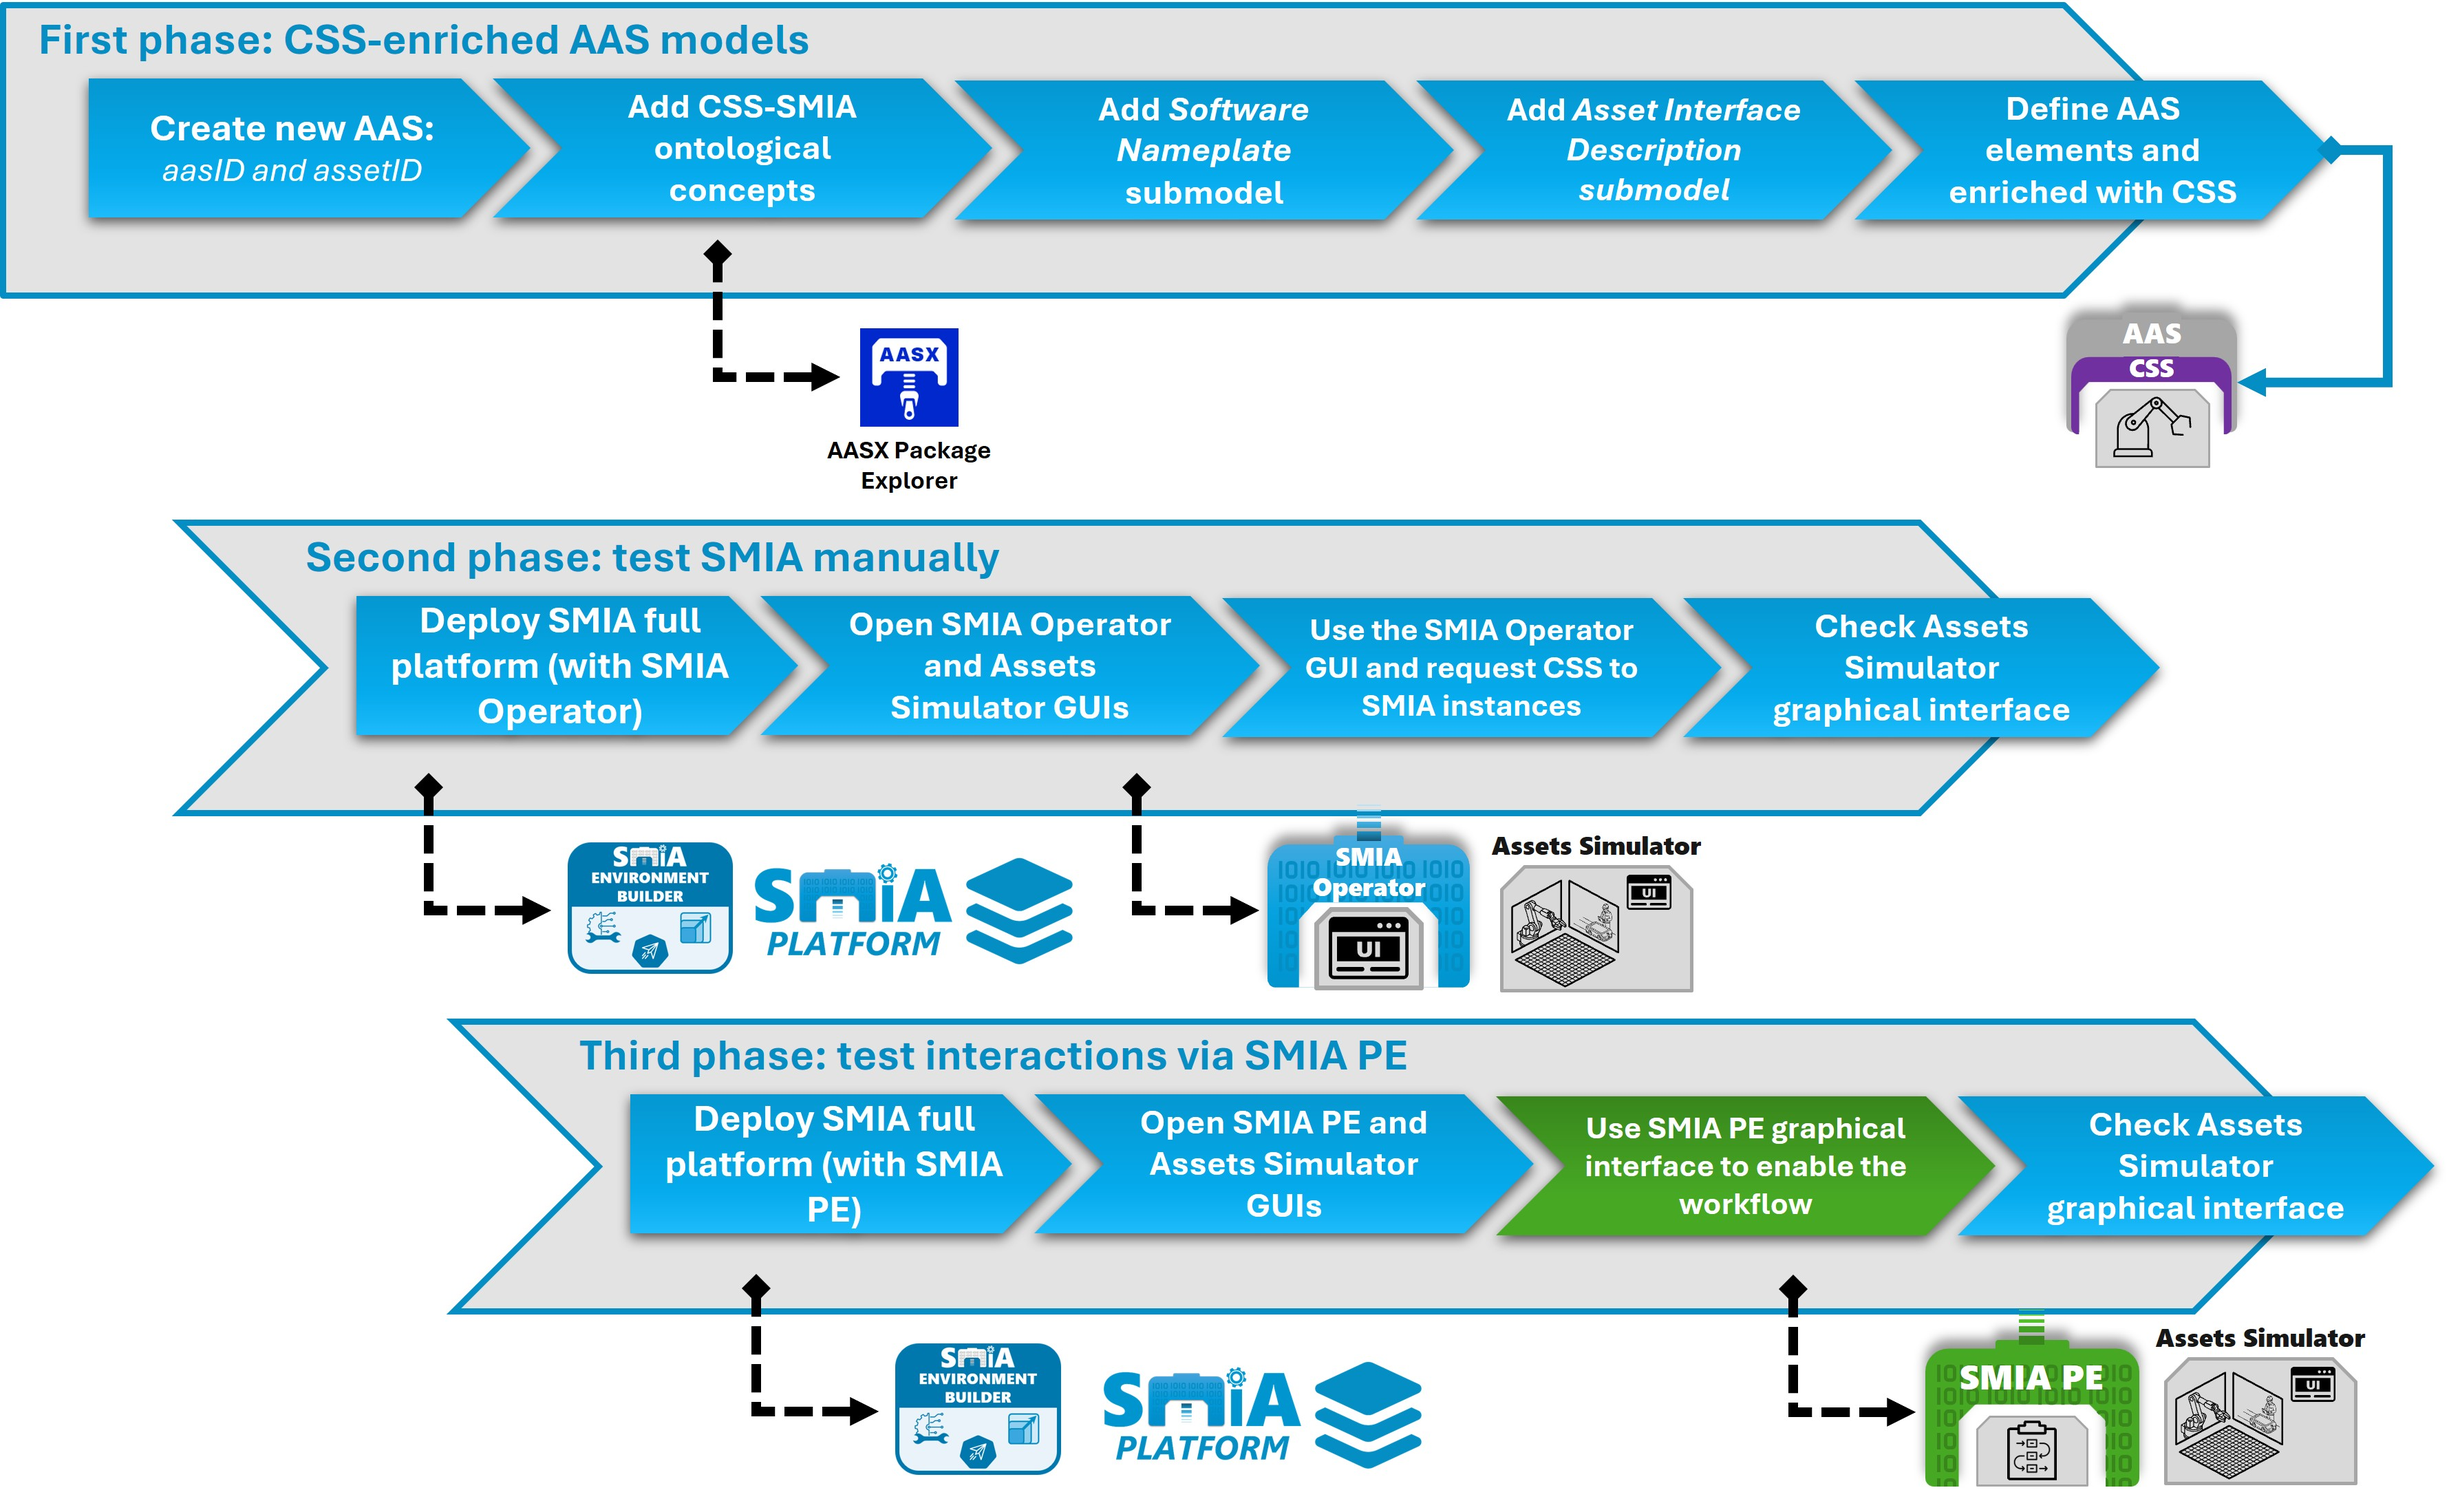
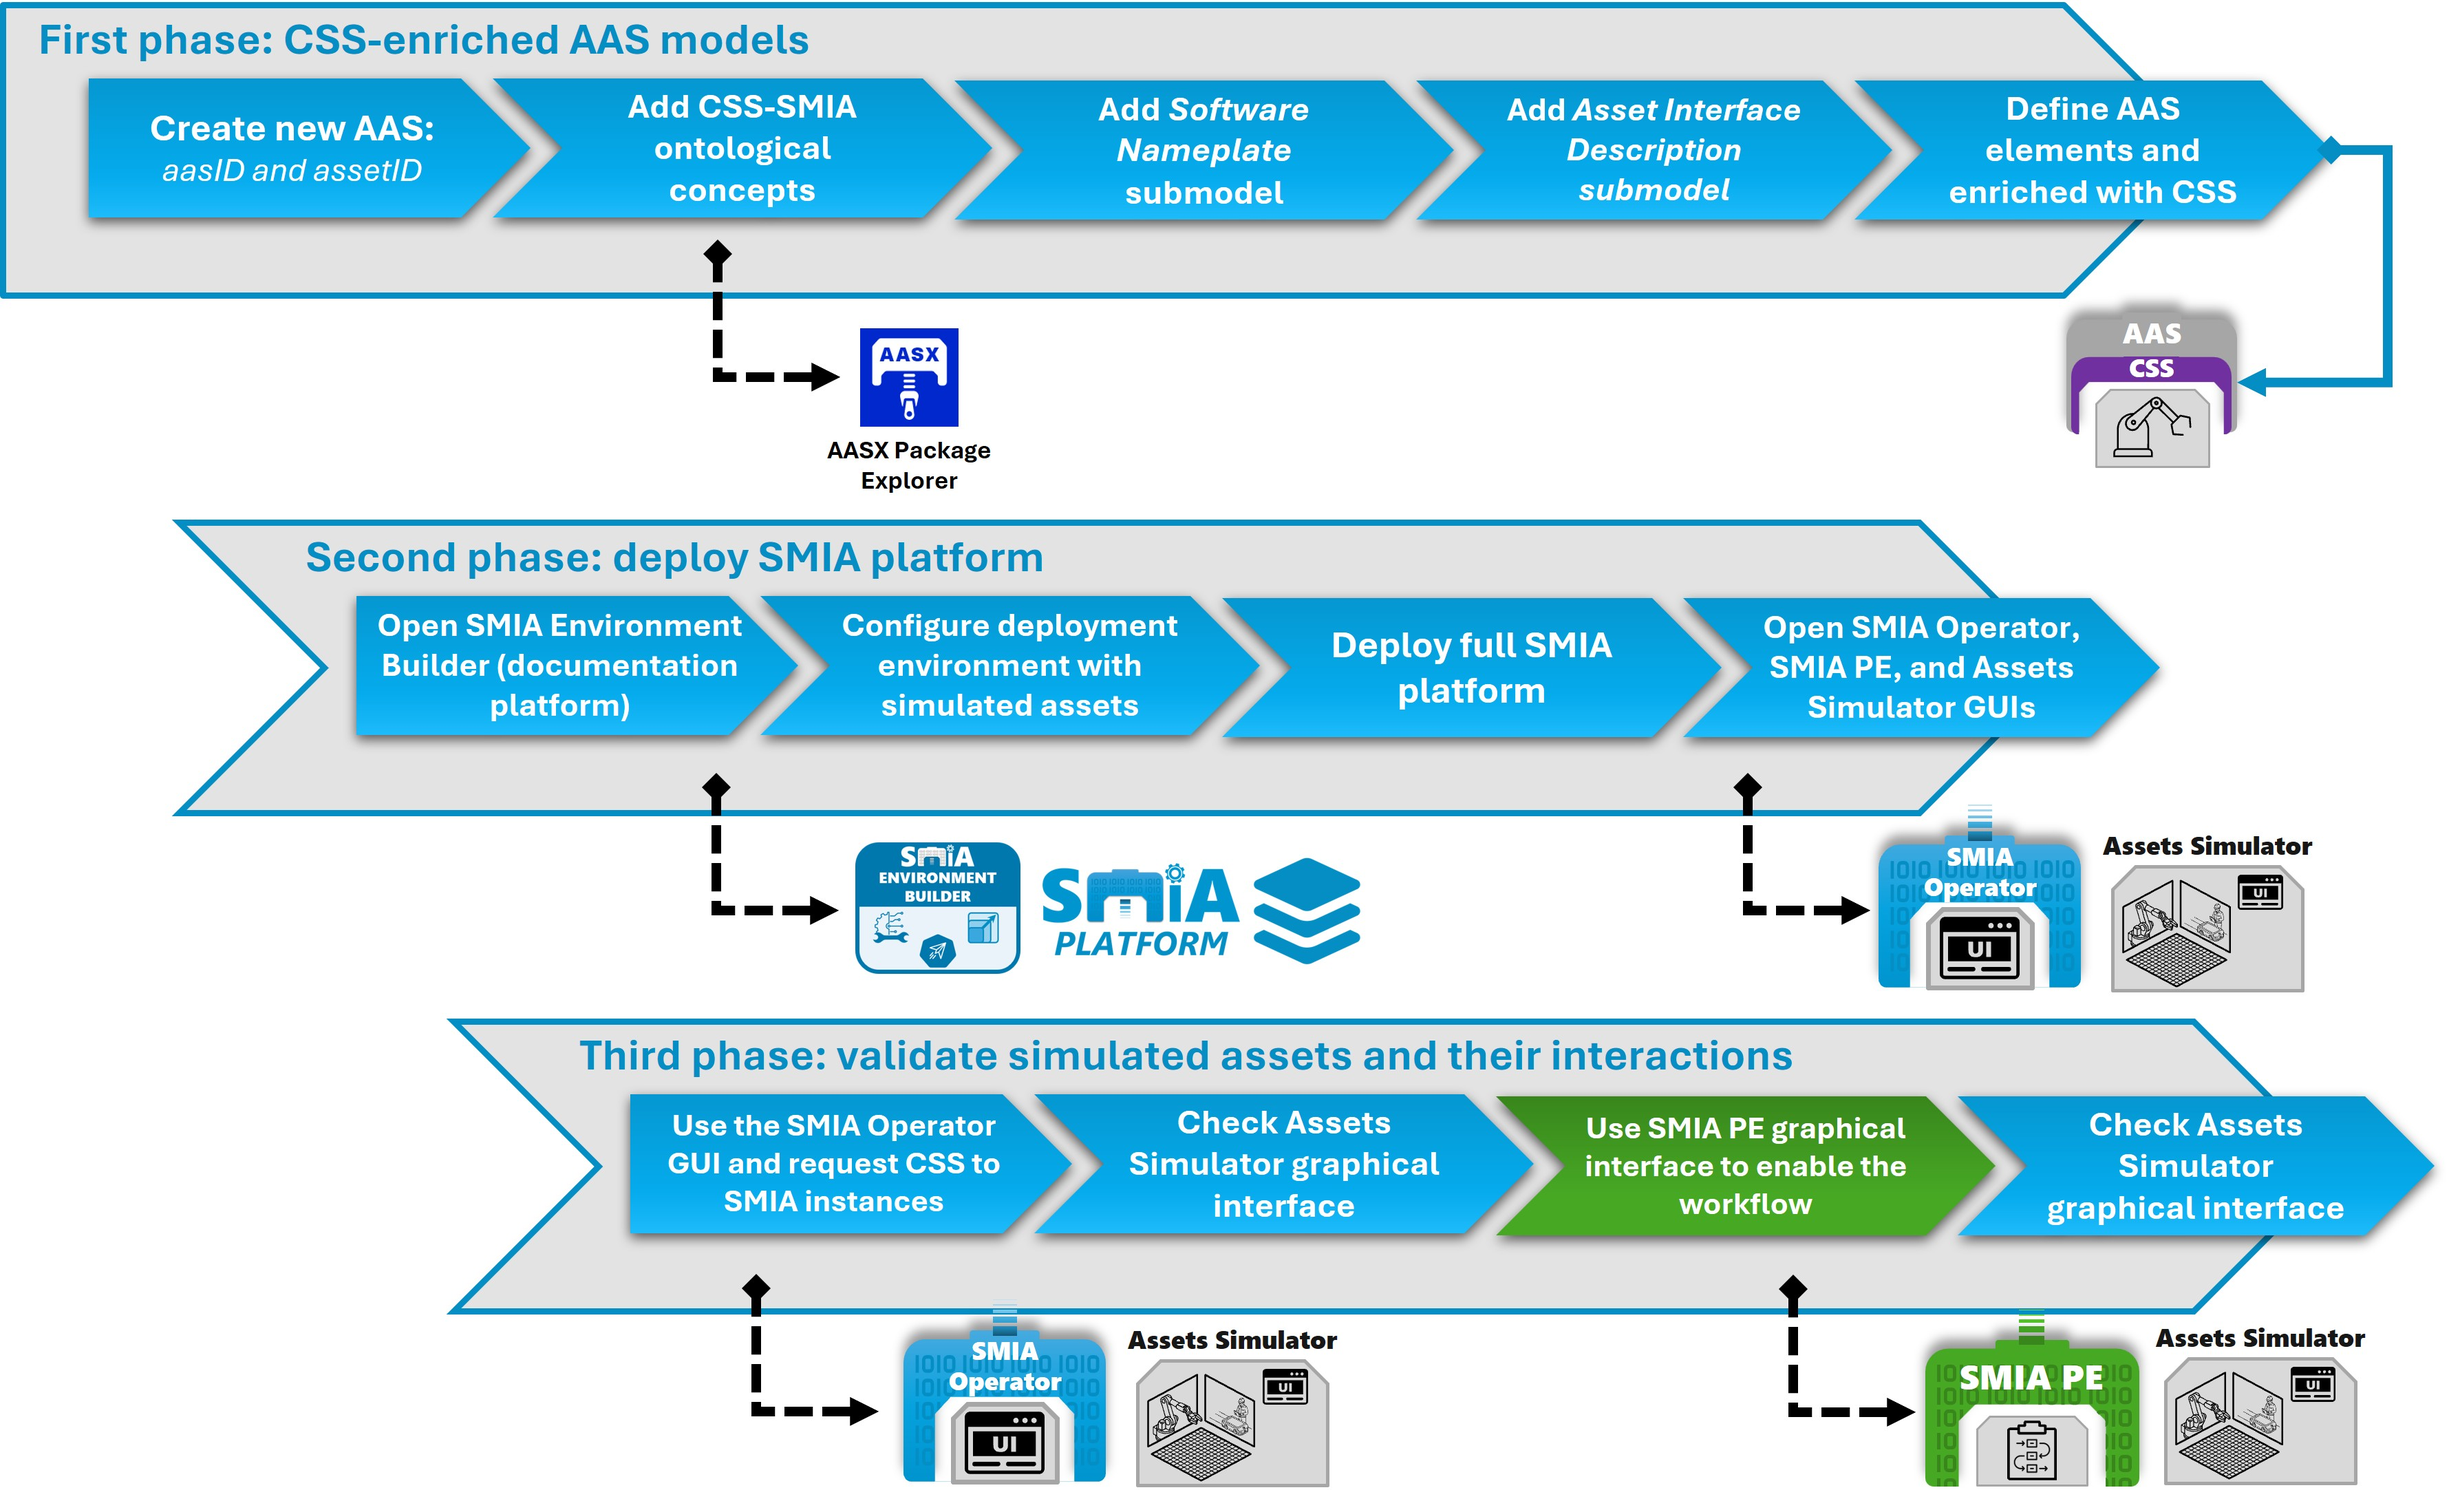
docs: progress with the step-by-step tutorial for the assets simulator: progress with the second phase (deployment of SMIA platform). How to set Up and deploy the platform

diff --git a/docs/smia_user_guide/guided_tutorials/guided_tutorial_simulated_assets.rst b/docs/smia_user_guide/guided_tutorials/guided_tutorial_simulated_assets.rst
@@ -25,7 +25,7 @@ Introduction
 Tutorial Description
 ~~~~~~~~~~~~~~~~~~~~
 
-The tutorial consists of three phases. It starts by generating the necessary pre-configuration, such as the CSS-enriched AAS model for each SMIA instance. Next, the entire SMIA platform is deployed to evaluate all the instances associated with these CSS-enriched AAS models, thanks to the necessary infrastructure (in particular, SMIA Operator). Finally, it evaluates the autonomous interaction between SMIA instances by deploying and running a BPMN manufacturing plan executed by an SMIA PE agent. The three phases are illustrated in the following figure:
+The tutorial consists of three phases. It starts by generating the necessary pre-configuration, such as the CSS-enriched AAS model for each SMIA instance. Next, the entire SMIA platform is deployed to evaluate all the instances associated with these CSS-enriched AAS models and their collaborative interaction. This process is facilitated by the Environment Builder tool on this documentation platform. Finally, it evaluates the operation of the agents and the collaborative and autonomous interaction among the SMIA instances in two stages. To validate the individual operation of each agent, the SMIA Operator infrastructure service is leveraged. To validate the distributed interactions, a BPMN manufacturing plan is launched and executed by an SMIA PE agent. The three phases are illustrated in the following figure:
 
 .. figure:: ../../_static/images/guides_images/SMIA_guided_tutorial_simAss_steps.jpg
    :alt: SMIA simulated assets guided tutorial steps
@@ -56,8 +56,9 @@ Tutorial Objective
 Upon completing this practice, you will have achieved the following:
 
 1. **Model:** Create a CSS-enriched AAS model that defines the asset's capabilities and serves to enable the self-configuration of the SMIA agent. As part of this process, you will also learn how to define a valid asset interface.
-2. **Individual validation:** Test and validate the operation of SMIA agents individually (the operation of each agent). The **SMIA Operator** agent will be used to make requests through an intuitive graphical interface (abstracting the underlying implementation using the I4.0 language).
-3. **Collaborative validation:** Test and validate the operation of the SMIA agents as a set of asset representatives within the SMIA platform. The **SMIA PE** agent will be used to automate production plans as BPMN workflows and verify how the involved agents interact and collaborate.
+2. **Deploy:** Deploy a self-contained execution environment with the entire SMIA platform, including agents for simulated assets, extended logical agents, SMIA PE agents, and the entire supporting infrastructure for them.
+3. **Individual validation:** Test and validate the operation of SMIA agents individually (the operation of each agent). The **SMIA Operator** agent will be used to make requests through an intuitive graphical interface (abstracting the underlying implementation using the I4.0 language).
+4. **Collaborative validation:** Test and validate the operation of the SMIA agents as a set of asset representatives within the SMIA platform. The **SMIA PE** agent will be used to automate production plans as BPMN workflows and verify how the involved agents interact and collaborate.
 
 Development Environment
 ~~~~~~~~~~~~~~~~~~~~~~~
@@ -147,7 +148,7 @@ In the first phase, we will generate the CSS-enriched AAS model that will allow 
         .. tip::
             All actions allow specifying a ``duration`` as a parameter within the body of the HTTP request, but it is not necessary to specify it within the AID submodel (it is specified at the Skill CSS level and is automatically handled by SMIA).
 
-    .. note::
+    .. tip::
        The submodel must be completely defined so that it does not produce errors during the SMIA startup. If you wish to modify a valid submodel, you can open a new window of the ``AASX Package Explorer`` tool, open the file ``CSS_AAS_model_base.aasx`` offered in this tutorial's folder, copy the "AssetInterfacesDescription" submodel using the ``Copy`` button, and in our AAS, ``Paste into``.
 
 
@@ -210,12 +211,12 @@ In the first phase, we will generate the CSS-enriched AAS model that will allow 
 8. Save the AASX file with the complete definition of the valid CSS-enriched AAS model. To do this, use the menu: ``File > Save as ...``, select the folder where the CSS-enriched AAS model will be saved and specify the name for the AASX file.
 
 
-Second Phase: validate the SMIA agents manually
------------------------------------------------
+Second Phase: deploy SMIA platform
+----------------------------------
 
-Once the phase required for SMIA's self-configuration (development of CSS-enriched AAS models for the simulated assets) is complete, its associated agents will be deployed alongside the rest of the SMIA platform to validate their operation. In this phase, validation will be performed manually using the ``SMIA Operator`` extended infrastructure agent.
+Once the phase required for SMIA's self-configuration (development of CSS-enriched AAS models for the simulated assets) is complete, its associated agents will be deployed alongside the rest of the SMIA platform to validate their operation.
 
-.. note::
+.. tip::
     In this tutorial, the platform will be deployed in a self-contained virtualized environment using Docker Compose, taking advantage of the fact that all platform components are available as images on Docker Hub (`SMIA agent image <https://hub.docker.com/r/ekhurtado/smia/tags>`_ and `platform component images <https://hub.docker.com/r/ekhurtado/smia-tools/tags>`_).
 
     You can use the CSS-enriched AAS models for the simulated assets (human, mobile, and production) developed in the previous phase. The rest of the CSS-enriched AAS model files for the logical assets (SMIA PE and proactive analysis asset) and infrastructure assets (SMIA Operator or SMIA ISM) are available in the `GitHub resources of this tutorial <https://github.com/ekhurtado/SMIA/tree/main/examples/tutorials/SMIA_extension_simulated_assets>`_.
@@ -261,12 +262,63 @@ To safely and easily set up a valid deployment environment, we will use the tool
 
 Once the deployment environment is ready, you can launch the complete SMIA platform and validate the simulated asset instances. To do so, follow these steps:
 
-.. TODO 1. AÑADIR LOS PASOS PARA DESPLEGAR (descomprimir ZIP y ``docker compose up``) y VALIDAR (abre operator, carga, solicita, etc.)
+
+1. Unzip the ZIP file and copy it to a system with Docker and Docker Compose installed.
+2. Navigate to the ``smia`` folder, which contains all the deployment files and information (``README.md``). As you can see, the CSS-enriched AAS models are located inside the ``aas`` folder. The remaining folders are related to infrastructure components (``xmpp_server`` for the Ejabberd server and ``basyx`` for the AAS server). The deployment file is :bdg-primary:`docker-compose.yml`.
+3. Make a few minor adjustments to ``docker-compose.yml`` for this tutorial:
+
+    3.1 For each SMIA instance of the industrial assets, configure self-registration in the SMIA-I KB so that they can expose their CSS information and agent identifier to the rest of the platform. To do this, in each Docker Compose service, add the following environment variable: ``SMIAI_KB_REGISTRATION=TRUE`` to all simulated assets (production, mobile, and human).
+
+    .. dropdown:: :octicon:`code;1em;sd-text-primary` Example of an SMIA instance for a simulated asset
+
+        .. code-block:: yaml
+            :emphasize-lines: 8
+
+            smia-mobile-robot-1:
+                image: ekhurtado/smia:latest-alpine
+                container_name: smia-mobile-robot-1
+                environment:
+                  - AAS_MODEL_NAME=SimulatedAssetHTTP_MobileRobot_1.aasx
+                  - AGENT_ID=mobile_robot_001@ejabberd
+                  - AGENT_PSSWD=gcis1234
+                  - SMIAI_KB_REGISTRATION=TRUE
+
+    3.2 In the SMIA PE instance, disable autonomous execution, so that it can be enabled later when needed (the first validation stage will be performed manually using SMIA Operator). To do this, add the following environment variable: ``WORKFLOW_AUTOSTART=False``.
+
+    .. dropdown:: :octicon:`code;1em;sd-text-primary` SMIA PE instance for manual validation
+
+        .. code-block:: yaml
+            :emphasize-lines: 8
+
+            smia-pe-simulated_assets_plan_001:
+                image: ekhurtado/smia-tools:latest-smia-pe
+                container_name: smia-pe-simulated_assets_plan_001
+                environment:
+                  - AAS_MODEL_NAME=SimulatedAssetsHTTP_Plan_1.aasx
+                  - AGENT_ID=simulated_assets_plan_001@ejabberd
+                  - AGENT_PSSWD=gcis1234
+                  - WORKFLOW_AUTOSTART=False
+
+4. Deploy the complete SMIA platform. To do so, simply run the following command in the ``smia`` folder:
+
+.. code:: bash
+
+    docker compose up
+
+Third Phase: validate simulated assets and their interactions
+-------------------------------------------------------------
+
+.. TODO
+
+Individual validation
+~~~~~~~~~~~~~~~~~~~~~
+
+In this stage, validation will be performed manually using the ``SMIA Operator`` extended infrastructure agent.
+
+Collaborative validation
+~~~~~~~~~~~~~~~~~~~~~~~~
 
 
-
-Third Phase: validate the SMIA agents via SMIA PE
--------------------------------------------------
 
 .. TODO
 
